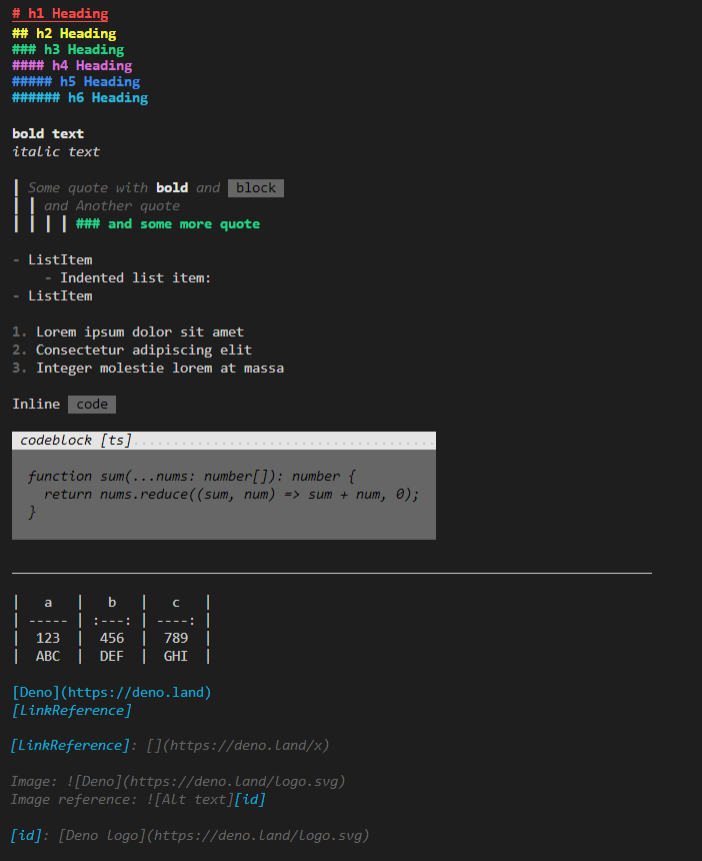
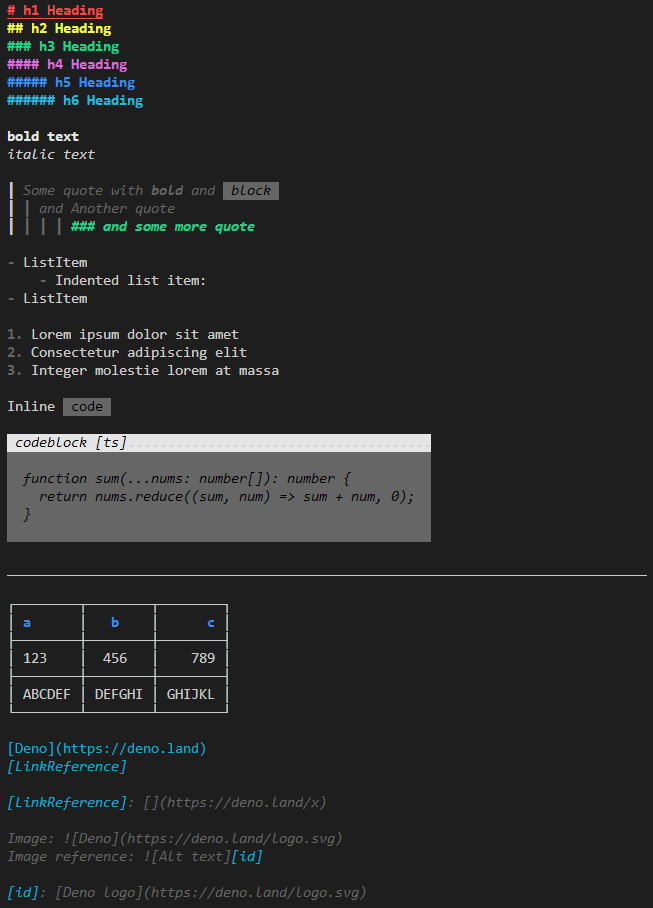
feat: table formatting (#4)
* table: formatting and alignment
* table: optional border
* docs: add table formatting

Changed region(s): [[0.0, 0.0, 0.6738, 0.6341], [0.0, 0.6643, 0.5513, 0.9965]]

diff --git a/utils.ts b/utils.ts
@@ -73,36 +73,102 @@ export function getHeaderFormatter(head: number) {
 
 export function isMarkdownTable(text: string) {
     // https://github.com/erikvullings/slimdown-js/blob/master/src/slimdown.ts#L125
-    return /(\|[^\n]+\|\r?\n)((?:\|:?[-]+:?)+\|)(\n(?:\|[^\n]+\|\r?\n?)*)?/g.test(text);
+    // Added \s* for the alignment row
+    return /(\|[^\n]+\|\r?\n)((?:\|\s*:?[-]+:?\s*)+\|)(\n(?:\|[^\n]+\|\r?\n?)*)?/g.test(text);
 };
 
-export function transformTable(markdownTable: string) {
+export function transformTable(markdownTable: string, borders?: boolean) {
 
     let grid = markdownTable
                 .trim()
                 .replaceAll('\r', '')
                 .split('\n')
-                .map(l => l.split('|'));
-
-    // console.log(grid);
+                .map(l => { return (
+                    l
+                    .trim()
+                    // remove first and last "|" borders of the table
+                    .replaceAll(/^\||\|$/g, '')
+                    .split('|')
+                )});
 
     const maxCol = Math.max(...grid.map(row => row.length));
+    const cellWidths = [];
+    
+    const cellPadding = 1;
+    const paddingString = " ".repeat(cellPadding);
 
     for(let i = 0; i < maxCol; i++) {
-        const cellMax = Math.max(...grid.map(row => row[i]?.length || 0));        
+        // if second row/alingment row, ignore it's length
+        const cellMax = Math.max(...grid.map((row, ri) => colors.stripColor(ri === 1 ? "" : (row[i] || "").trim()).length));        
+        cellWidths.push(cellMax);
 
+        const align = grid[1][i]?.trim() || ':--'; // defaults to left, to give chance to render markdown, not to throw
+        const cellAlign = align.startsWith(':') ? (align.endsWith(':') ? 'center' : 'left') : (align.endsWith(':') ? 'right' : 'left');
         // grid.map(row => row.map(cell => cell.padEnd(cellMax)));
-        grid = grid.map(row => {
+        grid = grid.map((row, ri) => {
             const d = row;
-            d[i] = (d[i]??'').padEnd(cellMax);
+            if(ri === 1) { // to fill rowalignment-lint to cellMax
+                d[i] = `${['center', 'left'].includes(cellAlign) ? ':' : ''}${"-".repeat(cellMax + cellPadding*2 - (cellAlign === 'center'? 2 : 1))}${['center', 'right'].includes(cellAlign) ? ':' : ''}`;
+                return d;
+            }
+
+            let cellContent = (d[i] || '').trim();
+            if(borders && ri === 0) {
+                cellContent = colors.blue(colors.bold(cellContent));
+            }
+            // add stipped length to padding
+            const strippedDiff = cellContent.length - colors.stripColor(cellContent).length;
+            const diff = (cellMax - cellContent.length) + strippedDiff;
+            d[i] = paddingString + getAlignedCellText(cellContent, cellAlign, diff) + paddingString;
             return d;
         });
     }
 
-    // console.log(grid.map(row => "|" + row.join('|')).join('\n'));
+    if(borders) {
+        // console.log(grid.map(row => "|" + row.join('|')).join('\n'));
+        const top = tableChars.topLeft + cellWidths.map(cw => tableChars.middleMiddle.repeat(cw + cellPadding*2)).join(tableChars.topMiddle) + tableChars.topRight;
+        const middle = tableChars.leftMiddle + cellWidths.map(cw => tableChars.middleMiddle.repeat(cw + cellPadding*2)).join(tableChars.rowMiddle) + tableChars.rightMiddle;
+        const bottom = tableChars.bottomLeft + cellWidths.map(cw => tableChars.middleMiddle.repeat(cw + cellPadding*2)).join(tableChars.bottomMiddle) + tableChars.bottomRight;
 
-    return grid.map(row => "|" + row.join('|')).join('\n');
+        grid.splice(1, 1); // remove alignment row
+        return (
+            top + '\n'
+            + grid.map(row => tableChars.left + row.join(tableChars.middle) + tableChars.right).join('\n'+middle+'\n') + '\n'
+            + bottom
+        );
+    } else {
+        return grid.map(row => "|" + row.join("|") + "|").join('\n');
+    }
+    
 }
+
+function getAlignedCellText(cellText: string, align: string, diff: number) {
+    diff = Math.max(diff, 0); // TODO fix, so no negative comes in in the first place
+    switch(align) {
+        case 'center':
+            return " ".repeat(Math.floor(diff/2)) + cellText + " ".repeat(Math.ceil(diff/2));
+        case 'left':
+            return cellText + " ".repeat(diff);
+        case 'right':
+            return " ".repeat(diff) + cellText;
+    }
+}
+
+const tableChars = {
+    middleMiddle: "─",
+    rowMiddle: "┼",
+    topRight: "┐",
+    topLeft: "┌",
+    leftMiddle: "├",
+    topMiddle: "┬",
+    bottomRight: "┘",
+    bottomLeft: "└",
+    bottomMiddle: "┴",
+    rightMiddle: "┤",
+    left: "│",
+    right: "│",
+    middle: "│",
+};
 
 /*
 export const prettifyTable = (mdt: string): string => {

diff --git a/transformer.ts b/transformer.ts
@@ -9,6 +9,10 @@ function recurse(node: Node, parent: Node) {
 }
 
 function transformNode(node: Node, parent: Node) {
+
+    // TODO(littletof) move to extension
+    handleTable(node, parent);
+
     if (node.type === 'text') {
         /* if (isMarkdownTable(node.value)) {
             node.value = transformTable(node.value);
@@ -49,7 +53,7 @@ function transformNode(node: Node, parent: Node) {
                 switch (parent.kind) {
                     case 'blockquote':
                         // add color to each line, so when adding | per line, it doesnt mess the color up
-                        node.value = node.value.split('\n').map((l: string) => colors.gray(colors.italic(l))).join('\n');
+                        // node.value = node.value.split('\n').map((l: string) => colors.gray(colors.italic(l))).join('\n');
                         break;
 
                     case 'listItem':
@@ -95,10 +99,11 @@ function transformNode(node: Node, parent: Node) {
         case 'code':
             let codeBlock = '';
             const xPadding = 2;
+            // TODO(littletof) remove dot as a filler. But space causes errors in vscode terminal, with empty lines
             const padString = (length: number) => colors.bgBrightBlack(colors.gray('.'.repeat(length)));
             
             const title = ` codeblock ${node.lang? `[${node.lang}]` : ''}`;
-            const lines: string[] = node.value.replaceAll('\r', '').split('\n');
+            const lines: string[] = node.value.replaceAll('\r', '').replaceAll('\t', '    ').split('\n');
             const max = Math.max(...lines.map(l => l.length), title.length);
 
             codeBlock += colors.bgWhite(colors.black(colors.italic(title)) + colors.white('.'.repeat((max-title.length) + xPadding*2))) + '\n';
@@ -142,3 +147,13 @@ function transformNode(node: Node, parent: Node) {
 export const transformer = async (mdast: Node) => {
     recurse(mdast, null!);
 };
+
+
+function handleTable(node: Node, parent: Node) {
+    if(node.type === "paragraph") {
+        const table = node.children?.map(c => c.value).join("").trim();
+        if(isMarkdownTable(table || '')) {
+            node.type = 'table';
+        }
+    }
+}

diff --git a/generator.ts b/generator.ts
@@ -1,7 +1,7 @@
 // Core of this file comes from https://github.com/dephraiim/termd/blob/1.4.0/src/generator.ts
 
 import {colors} from './deps.ts';
-import { getHeaderFormatter, Node } from './utils.ts';
+import { getHeaderFormatter, Node, transformTable } from './utils.ts';
 
 export const generator = (node: Node): string | undefined => {
     switch (node.type) {
@@ -30,8 +30,11 @@ export const generator = (node: Node): string | undefined => {
             );
 
         case 'blockquote':
-            // gen childs, then add horizontal line to the start of all generated chidren lines, except last \n
-            return node.children?.map((child: Node) => generator(child)?.split('\n').map((l,i,a) => (i != a.length-1 && l.trim() ? '┃ ' : '') + l).join('\n')).join('');
+            // gen childs
+            return node.children?.map((child: Node) => generator(child)?.split('\n')
+                    .map((l: string) => colors.gray(colors.italic(l)))
+                    // then add horizontal line to the start of all generated chidren lines, except last \n
+                    .map((l,i,a) => (i != a.length-1 && l.trim() ? '┃ ' : '') + l).join('\n')).join('');
 
         case 'list':
             let returnNode;
@@ -70,6 +73,10 @@ export const generator = (node: Node): string | undefined => {
             return node.value;
         case 'html':
             return node.value;
+
+        case 'table':
+            const t = node.children?.map((child: Node) => generator(child)).join('') || '';
+            return transformTable(t, true) + '\n';
 
         default:
             // console.log({...node});

diff --git a/example.ts b/example.ts
@@ -131,18 +131,22 @@ ___
 
 ## Tables
 
-> 🔺 Currently tables are presented without formatting.
-
 |   a   |   b   |   c   |
 | ----- | :---: | ----: |
 |  123  |  456  |  789  |
 |  ABC  |  DEF  |  GHI  |
 
-| Option | Description |
-| ------ | ----------- |
-| data   | path to data files to supply the data that will be passed into templates. |
-| engine | engine to be used for processing templates. Handlebars is the default. |
-| ext    | extension to be used for dest files. |
+| left1 |left2|   center   |  right  |
+|-------|:----|:-----:|----:|
+|  123  | 456 |  789  | 101 |
+|  \`ABC\`  | **DEF** |  *GHI*  | JKL |
+
+> | Option | Description |
+> | ------ | ----------- |
+> | data   | path to data files to supply the </br> data that will be passed into templates. |
+> | engine | engine to be used for processing templates. Handlebars is the default. |
+> | ext    | extension to be used for dest files. |
+> | image  | ![image](https://deno.land/logo.svg) |
 
 
 | Option | Description |
@@ -150,7 +154,7 @@ ___
 | data   | path to data files to supply the data that will be passed into templates. |
 | engine | engine to be used for processing templates. Handlebars is the default. |
 | ext    | extension to be used for dest files. |
-
+| image  | ![image](https://deno.land/logo.svg) |
 
 ## Links
 

diff --git a/docs/docs.md b/docs/docs.md
@@ -33,7 +33,7 @@ function sum(...nums: number[]): number {
 |   a   |   b   |   c   |
 | ----- | :---: | ----: |
 |  123  |  456  |  789  |
-|  ABC  |  DEF  |  GHI  |
+|  ABCDEF  |  DEFGHI  |  GHIJKL  |
 
 [Deno](https://deno.land)
 [LinkReference]

diff --git a/README.md b/README.md
@@ -62,7 +62,6 @@ The module itself requires no permissions to run.
 ## Limitations
 
 - No syntax highlight
-- No table formatting
 - No \~\~strikethrough\~\~ or underline
 - Some hiccups with more complex markdowns
 
